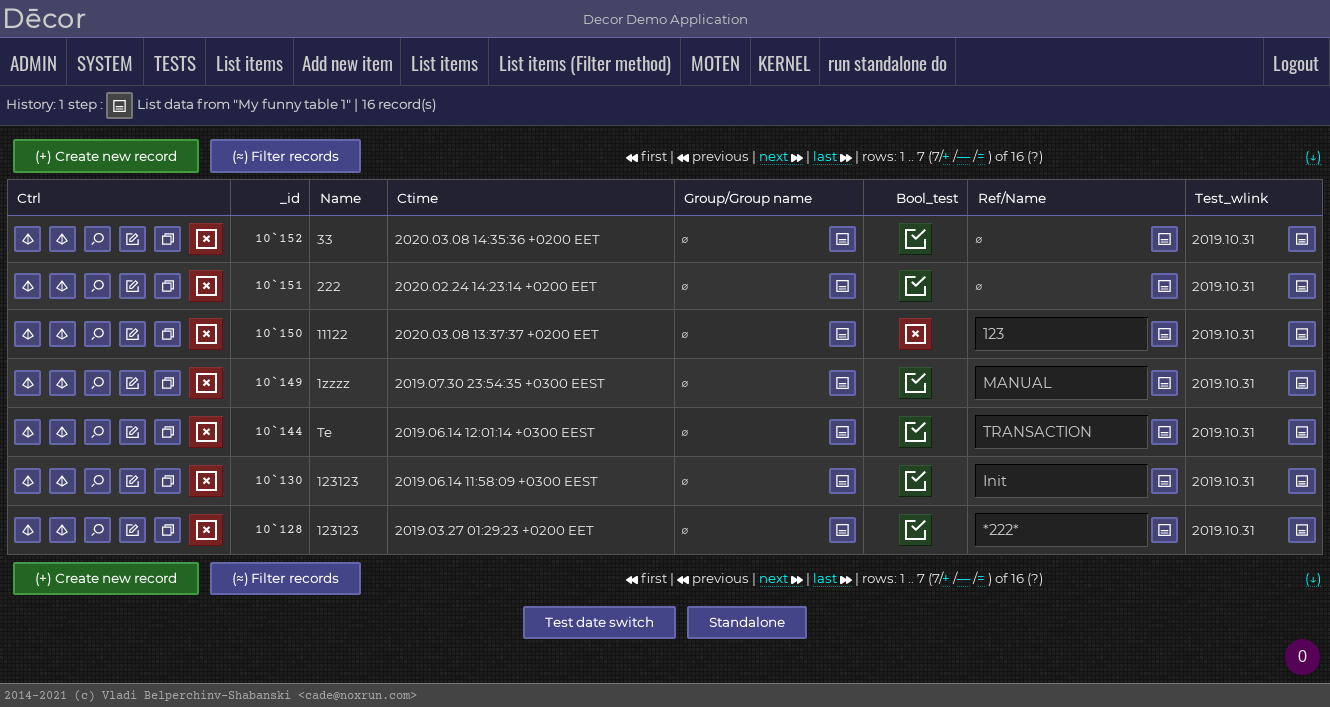
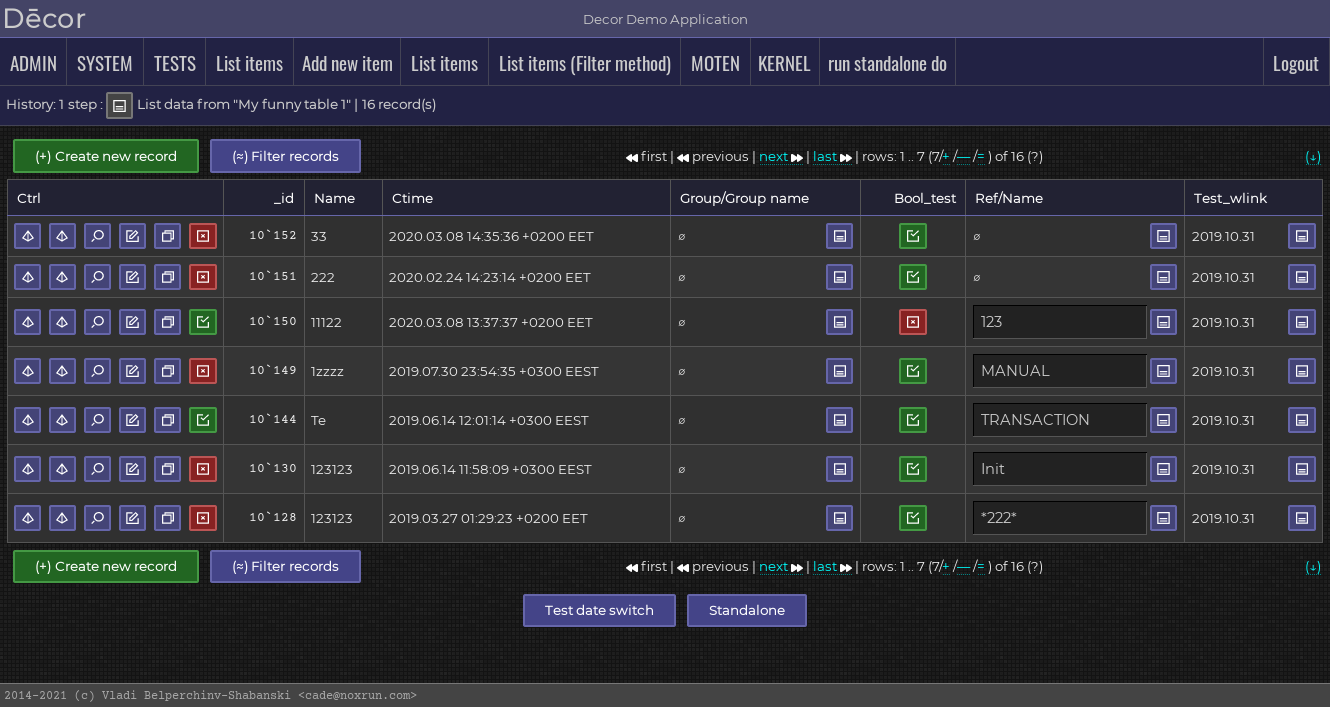
fixed-checkboxes-css-styles-and-grid-filter-screen

diff --git a/web/htdocs/i/default.css b/web/htdocs/i/default.css
@@ -9,7 +9,7 @@
 ############################################################################*/
 
 
-/* THIS FILE IS GENERATED! PLEASE, DO NOT MODIFY! -- GENERATED AT Fri Apr 16 00:26:43 2021 */
+/* THIS FILE IS GENERATED! PLEASE, DO NOT MODIFY! -- GENERATED AT Fri Apr 16 00:58:39 2021 */
 
 
 
@@ -978,52 +978,55 @@ div.popup-layer
 
 img.check-unknown
         {
-        color: #999;
-        background-color: #772;
+        cursor: pointer;
+        height: 2em;
         padding: 0.4em;
-        border-top:    solid 1px #883;
-        border-left:   solid 1px #883;
-        border-bottom: solid 1px #661;
-        border-right:  solid 1px #661;
+        text-decoration: none;
+
+        color: #FFF;
+        background-color: #444;
+        border: solid 2px #777;
+        border-radius: 2px;
         }
 
 img.check-0
         {
-        color: #999;
-        background-color: #722;
+        cursor: pointer;
+        height: 2em;
         padding: 0.4em;
-        border-top:    solid 1px #833;
-        border-left:   solid 1px #833;
-        border-bottom: solid 1px #611;
-        border-right:  solid 1px #611;
+        text-decoration: none;
+
+        color: #FFF;
+        background-color: #822;
+        border: solid 2px #B55;
+        border-radius: 2px;
         }
 
 img.check-0:hover
         {
-        border-top:    solid 1px #611;
-        border-left:   solid 1px #611;
-        border-bottom: solid 1px #833;
-        border-right:  solid 1px #833;
+        color: #FFF;
+        background-color: #B55;
+        border: solid 2px #D77;
         }
 
 img.check-1
         {
-        color: #FFF;
-        font-weight: bold;
-        background-color: #242;
+        cursor: pointer;
+        height: 2em;
         padding: 0.4em;
-        border-top:    solid 1px #353;
-        border-left:   solid 1px #353;
-        border-bottom: solid 1px #121;
-        border-right:  solid 1px #121;
+        text-decoration: none;
+
+        color: #FFF;
+        background-color: #262;
+        border: solid 2px #494;
+        border-radius: 2px;
         }
 
 img.check-1:hover
         {
-        border-top:    solid 1px #121;
-        border-left:   solid 1px #121;
-        border-bottom: solid 1px #353;
-        border-right:  solid 1px #353;
+        color: #FFF;
+        background-color: #494;
+        border: solid 2px #6A6;
         }
 
 /*** other ******************************************************************/

diff --git a/web/css/default.in.css b/web/css/default.in.css
@@ -996,52 +996,55 @@ div.popup-layer
 
 img.check-unknown
         {
-        color: #999;
-        background-color: #772;
+        cursor: pointer;
+        height: 2em;
         padding: 0.4em;
-        border-top:    solid 1px #883;
-        border-left:   solid 1px #883;
-        border-bottom: solid 1px #661;
-        border-right:  solid 1px #661;
+        text-decoration: none;
+
+        color: #FFF;
+        background-color: #444;
+        border: solid 2px #777;
+        border-radius: 2px;
         }
 
 img.check-0
         {
-        color: #999;
-        background-color: #722;
+        cursor: pointer;
+        height: 2em;
         padding: 0.4em;
-        border-top:    solid 1px #833;
-        border-left:   solid 1px #833;
-        border-bottom: solid 1px #611;
-        border-right:  solid 1px #611;
+        text-decoration: none;
+
+        color: #FFF;
+        background-color: #822;
+        border: solid 2px #B55;
+        border-radius: 2px;
         }
 
 img.check-0:hover
         {
-        border-top:    solid 1px #611;
-        border-left:   solid 1px #611;
-        border-bottom: solid 1px #833;
-        border-right:  solid 1px #833;
+        color: #FFF;
+        background-color: #B55;
+        border: solid 2px #D77;
         }
 
 img.check-1
         {
-        color: #FFF;
-        font-weight: bold;
-        background-color: #242;
+        cursor: pointer;
+        height: 2em;
         padding: 0.4em;
-        border-top:    solid 1px #353;
-        border-left:   solid 1px #353;
-        border-bottom: solid 1px #121;
-        border-right:  solid 1px #121;
+        text-decoration: none;
+
+        color: #FFF;
+        background-color: #262;
+        border: solid 2px #494;
+        border-radius: 2px;
         }
 
 img.check-1:hover
         {
-        border-top:    solid 1px #121;
-        border-left:   solid 1px #121;
-        border-bottom: solid 1px #353;
-        border-right:  solid 1px #353;
+        color: #FFF;
+        background-color: #494;
+        border: solid 2px #6A6;
         }
 
 /*** other ******************************************************************/
